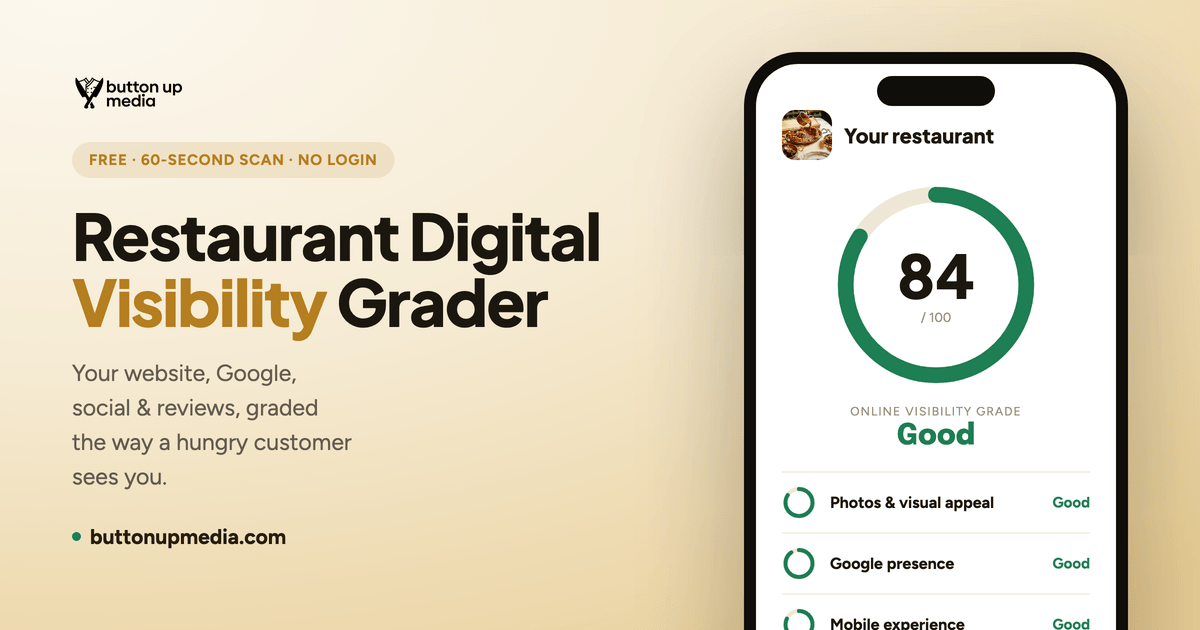
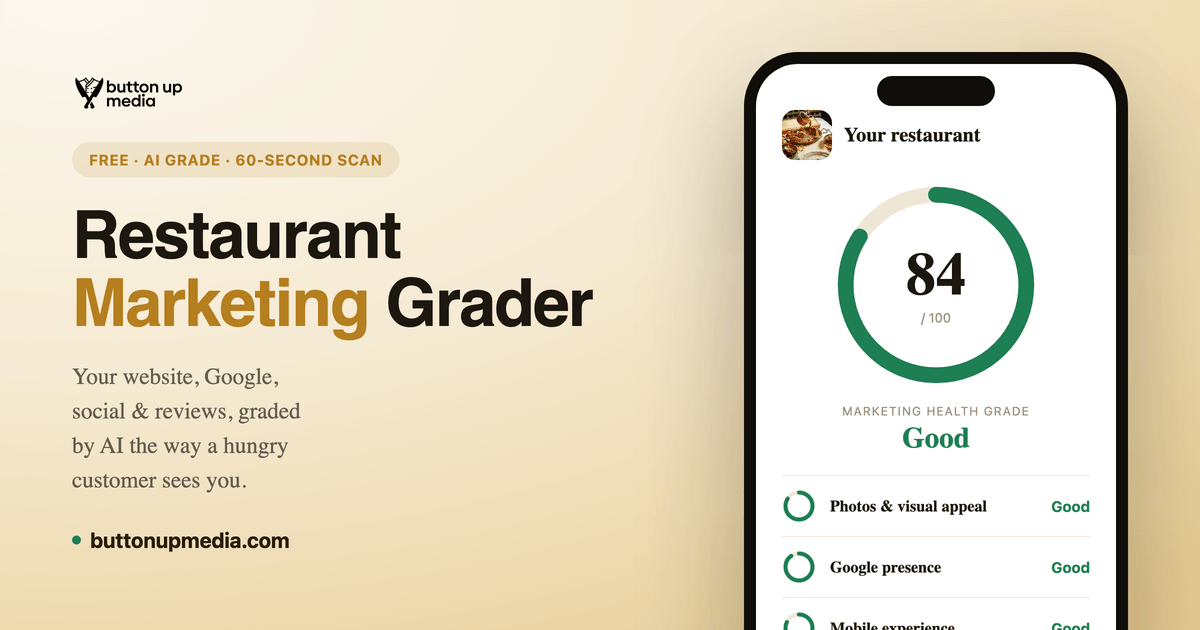
website-grader: rename to "Restaurant Marketing Grader" (EN)
Reframes the tool as an AI report on the whole marketing presence
(website, Google, social, reviews, competitors), not just visibility.

- Landing + report titles/OG -> "Restaurant Marketing Grader"
- Copy now says it is AI-powered and welcomes bars & cafés, not only restaurants
- Drops the "digital visibility/presence" jargon for plain owner language
- Sidebar label -> "Marketing health grade"; scan meta -> "full AI marketing audit"
- Regenerated og-grader.png to match the new name + AI grade

Spanish twin left untouched pending the EN sign-off.

diff --git a/website-grader.html b/website-grader.html
@@ -41,8 +41,8 @@
   'https://www.googletagmanager.com/gtm.js?id='+i+dl;f.parentNode.insertBefore(j,f);
   })(window,document,'script','dataLayer','GTM-WR9TZHT');</script>
   <!-- End Google Tag Manager -->
-  <title>Free Restaurant Digital Visibility Grader | Button Up Media</title>
-  <meta name="description" content="See how your restaurant actually shows up online. A free, instant grade on your website, Google listing, social media and reviews, plus how you compare to nearby competitors." />
+  <title>Free Restaurant Marketing Grader | Button Up Media</title>
+  <meta name="description" content="See how your restaurant, bar or café actually shows up online. A free, instant AI grade on your website, Google listing, social media and reviews, plus how you compare to nearby competitors." />
   <meta name="robots" content="noindex, follow" />
   <link rel="icon" type="image/svg+xml" href="/favicon-bum.svg" />
   <link rel="canonical" href="https://www.buttonupmedia.com/website-grader" />
@@ -51,18 +51,18 @@
   <link rel="alternate" hreflang="x-default" href="https://www.buttonupmedia.com/website-grader" />
   <meta name="theme-color" content="#FBF8F2" />
   <meta property="og:type" content="website" />
-  <meta property="og:title" content="Free Restaurant Digital Visibility Grader | Button Up Media" />
-  <meta property="og:description" content="See how your restaurant actually shows up online. A free, instant grade on your website, Google listing, social media and reviews, plus how you compare to nearby competitors." />
+  <meta property="og:title" content="Free Restaurant Marketing Grader | Button Up Media" />
+  <meta property="og:description" content="See how your restaurant, bar or café actually shows up online. A free, instant AI grade on your website, Google listing, social media and reviews, plus how you compare to nearby competitors." />
   <meta property="og:url" content="https://www.buttonupmedia.com/website-grader" />
   <meta property="og:site_name" content="Button Up Media" />
   <meta property="og:locale" content="en_US" />
   <meta property="og:image" content="https://www.buttonupmedia.com/media/og-grader.png" />
   <meta property="og:image:width" content="1200" />
   <meta property="og:image:height" content="630" />
-  <meta property="og:image:alt" content="Restaurant Digital Visibility Grader by Button Up Media" />
+  <meta property="og:image:alt" content="Restaurant Marketing Grader by Button Up Media" />
   <meta name="twitter:card" content="summary_large_image" />
-  <meta name="twitter:title" content="Free Restaurant Digital Visibility Grader | Button Up Media" />
-  <meta name="twitter:description" content="A free, instant grade on your restaurant's website, Google, social and reviews, in 60 seconds." />
+  <meta name="twitter:title" content="Free Restaurant Marketing Grader | Button Up Media" />
+  <meta name="twitter:description" content="A free, instant AI grade on your restaurant's website, Google, social and reviews, in 60 seconds." />
   <meta name="twitter:image" content="https://www.buttonupmedia.com/media/og-grader.png" />
   <link rel="preconnect" href="https://assets.calendly.com" />
   <link rel="preconnect" href="https://calendly.com" />
@@ -723,15 +723,15 @@
             <svg viewBox="0 0 24 24" fill="currentColor"><path d="m12 2 2.9 6.3 6.9.6-5.2 4.5 1.6 6.7L12 16.9 5.8 20.6l1.6-6.7L2.2 8.9l6.9-.6z"/></svg>
             <svg viewBox="0 0 24 24" fill="currentColor"><path d="m12 2 2.9 6.3 6.9.6-5.2 4.5 1.6 6.7L12 16.9 5.8 20.6l1.6-6.7L2.2 8.9l6.9-.6z"/></svg>
           </span>
-          Trusted by South Florida&rsquo;s favorite restaurants
+          Trusted by South Florida&rsquo;s favorite restaurants, bars &amp; caf&eacute;s
         </div>
-        <h1 class="gr-rise d1">Is your website <span class="gr-gold">losing you customers</span>? Get your grade in 60 seconds.</h1>
-        <p class="gr-hero-sub gr-rise d2">Get a free, instant scorecard on your restaurant&rsquo;s website, speed, SEO, and customer experience, plus how you stack up against nearby competitors.</p>
+        <h1 class="gr-rise d1">Is your restaurant <span class="gr-gold">losing customers online</span>? Get your free AI grade in 60 seconds.</h1>
+        <p class="gr-hero-sub gr-rise d2">Our AI checks everything your guests see, your website, Google listing, social media and reviews, then shows how you stack up against nearby spots and exactly what to fix first.</p>
 
         <div class="gr-search gr-rise d2" id="scan">
           <form class="gr-search-bar" id="gr-form" autocomplete="off">
             <span class="gr-search-ic"><svg viewBox="0 0 24 24" fill="none" stroke="currentColor" stroke-width="2" stroke-linecap="round" stroke-linejoin="round"><circle cx="11" cy="11" r="8"/><path d="m21 21-4.3-4.3"/></svg></span>
-            <input type="text" id="gr-input" placeholder="Find your restaurant name" aria-label="Find your restaurant" aria-autocomplete="list" aria-controls="gr-ac" />
+            <input type="text" id="gr-input" placeholder="Find your restaurant, bar or caf&eacute;" aria-label="Find your restaurant, bar or caf&eacute;" aria-autocomplete="list" aria-controls="gr-ac" />
             <button type="submit" class="gr-search-btn">Get my free report
               <svg viewBox="0 0 24 24" fill="none" stroke="currentColor" stroke-width="2.4" stroke-linecap="round" stroke-linejoin="round"><path d="M12 19V5"/><path d="m5 12 7-7 7 7"/></svg>
             </button>

diff --git a/website-grader-report.html b/website-grader-report.html
@@ -34,19 +34,19 @@
   'https://www.googletagmanager.com/gtm.js?id='+i+dl;f.parentNode.insertBefore(j,f);
   })(window,document,'script','dataLayer','GTM-WR9TZHT');</script>
   <!-- End Google Tag Manager -->
-  <title>Your Restaurant's Digital Visibility Report | Button Up Media</title>
+  <title>Your Restaurant Marketing Report | Button Up Media</title>
   <meta name="robots" content="noindex, nofollow" />
   <link rel="icon" type="image/svg+xml" href="/favicon-bum.svg" />
   <meta name="theme-color" content="#FBF8F2" />
   <meta property="og:type" content="website" />
-  <meta property="og:title" content="Your Restaurant's Digital Visibility Report | Button Up Media" />
-  <meta property="og:description" content="A free grade on your restaurant's website, Google listing, social media and reviews, and how you compare to nearby competitors." />
+  <meta property="og:title" content="Your Restaurant Marketing Report | Button Up Media" />
+  <meta property="og:description" content="A free AI grade on your restaurant's website, Google listing, social media and reviews, and how you compare to nearby competitors." />
   <meta property="og:site_name" content="Button Up Media" />
   <meta property="og:image" content="https://www.buttonupmedia.com/media/og-grader.png" />
   <meta property="og:image:width" content="1200" />
   <meta property="og:image:height" content="630" />
   <meta name="twitter:card" content="summary_large_image" />
-  <meta name="twitter:title" content="Your Restaurant's Digital Visibility Report | Button Up Media" />
+  <meta name="twitter:title" content="Your Restaurant Marketing Report | Button Up Media" />
   <meta name="twitter:image" content="https://www.buttonupmedia.com/media/og-grader.png" />
   <link rel="preconnect" href="https://assets.calendly.com" />
   <link rel="preload" as="font" type="font/woff2" href="/fonts/plus-jakarta-sans-variable.woff2" crossorigin fetchpriority="high" />
@@ -349,8 +349,8 @@
         <div class="img"><svg viewBox="0 0 24 24" fill="none" stroke="currentColor" stroke-width="1.5" stroke-linecap="round" stroke-linejoin="round"><path d="M3 9l9-6 9 6v11a1 1 0 0 1-1 1H4a1 1 0 0 1-1-1z"/><path d="M9 21V12h6v9"/></svg></div>
         <div class="body">
           <h2 id="sr-scan-name">Your Restaurant</h2>
-          <div class="meta"><span>Running a full Google-grade audit&hellip;</span></div>
-          <p id="sr-scan-lead">Reading your Google listing, your reviews, and how you stack up against the restaurants competing for your customers&hellip;</p>
+          <div class="meta"><span>Running a full AI marketing audit&hellip;</span></div>
+          <p id="sr-scan-lead">Our AI is reading your website, Google listing, reviews and social, and how you stack up against the spots competing for your customers&hellip;</p>
           <div class="sr-findings" id="sr-findings"></div>
         </div>
       </div>
@@ -367,7 +367,7 @@
             <svg viewBox="0 0 200 200"><circle cx="100" cy="100" r="86" fill="none" stroke="rgba(44,38,28,0.1)" stroke-width="14"/><circle id="sr-gauge-arc" cx="100" cy="100" r="86" fill="none" stroke="#CF4A3C" stroke-width="14" stroke-linecap="round" stroke-dasharray="540" stroke-dashoffset="540"/></svg>
             <div class="val"><b id="sr-score">0</b><span>of 100</span></div>
           </div>
-          <div class="sr-grade-lab">Online health grade</div>
+          <div class="sr-grade-lab">Marketing health grade</div>
           <div class="sr-grade" id="sr-grade">,</div>
           <div class="sr-grade-note" id="sr-grade-note"></div>
           <!-- one-tap confirm for an unconfirmed Instagram guess (stays crisp, above the gate) -->
